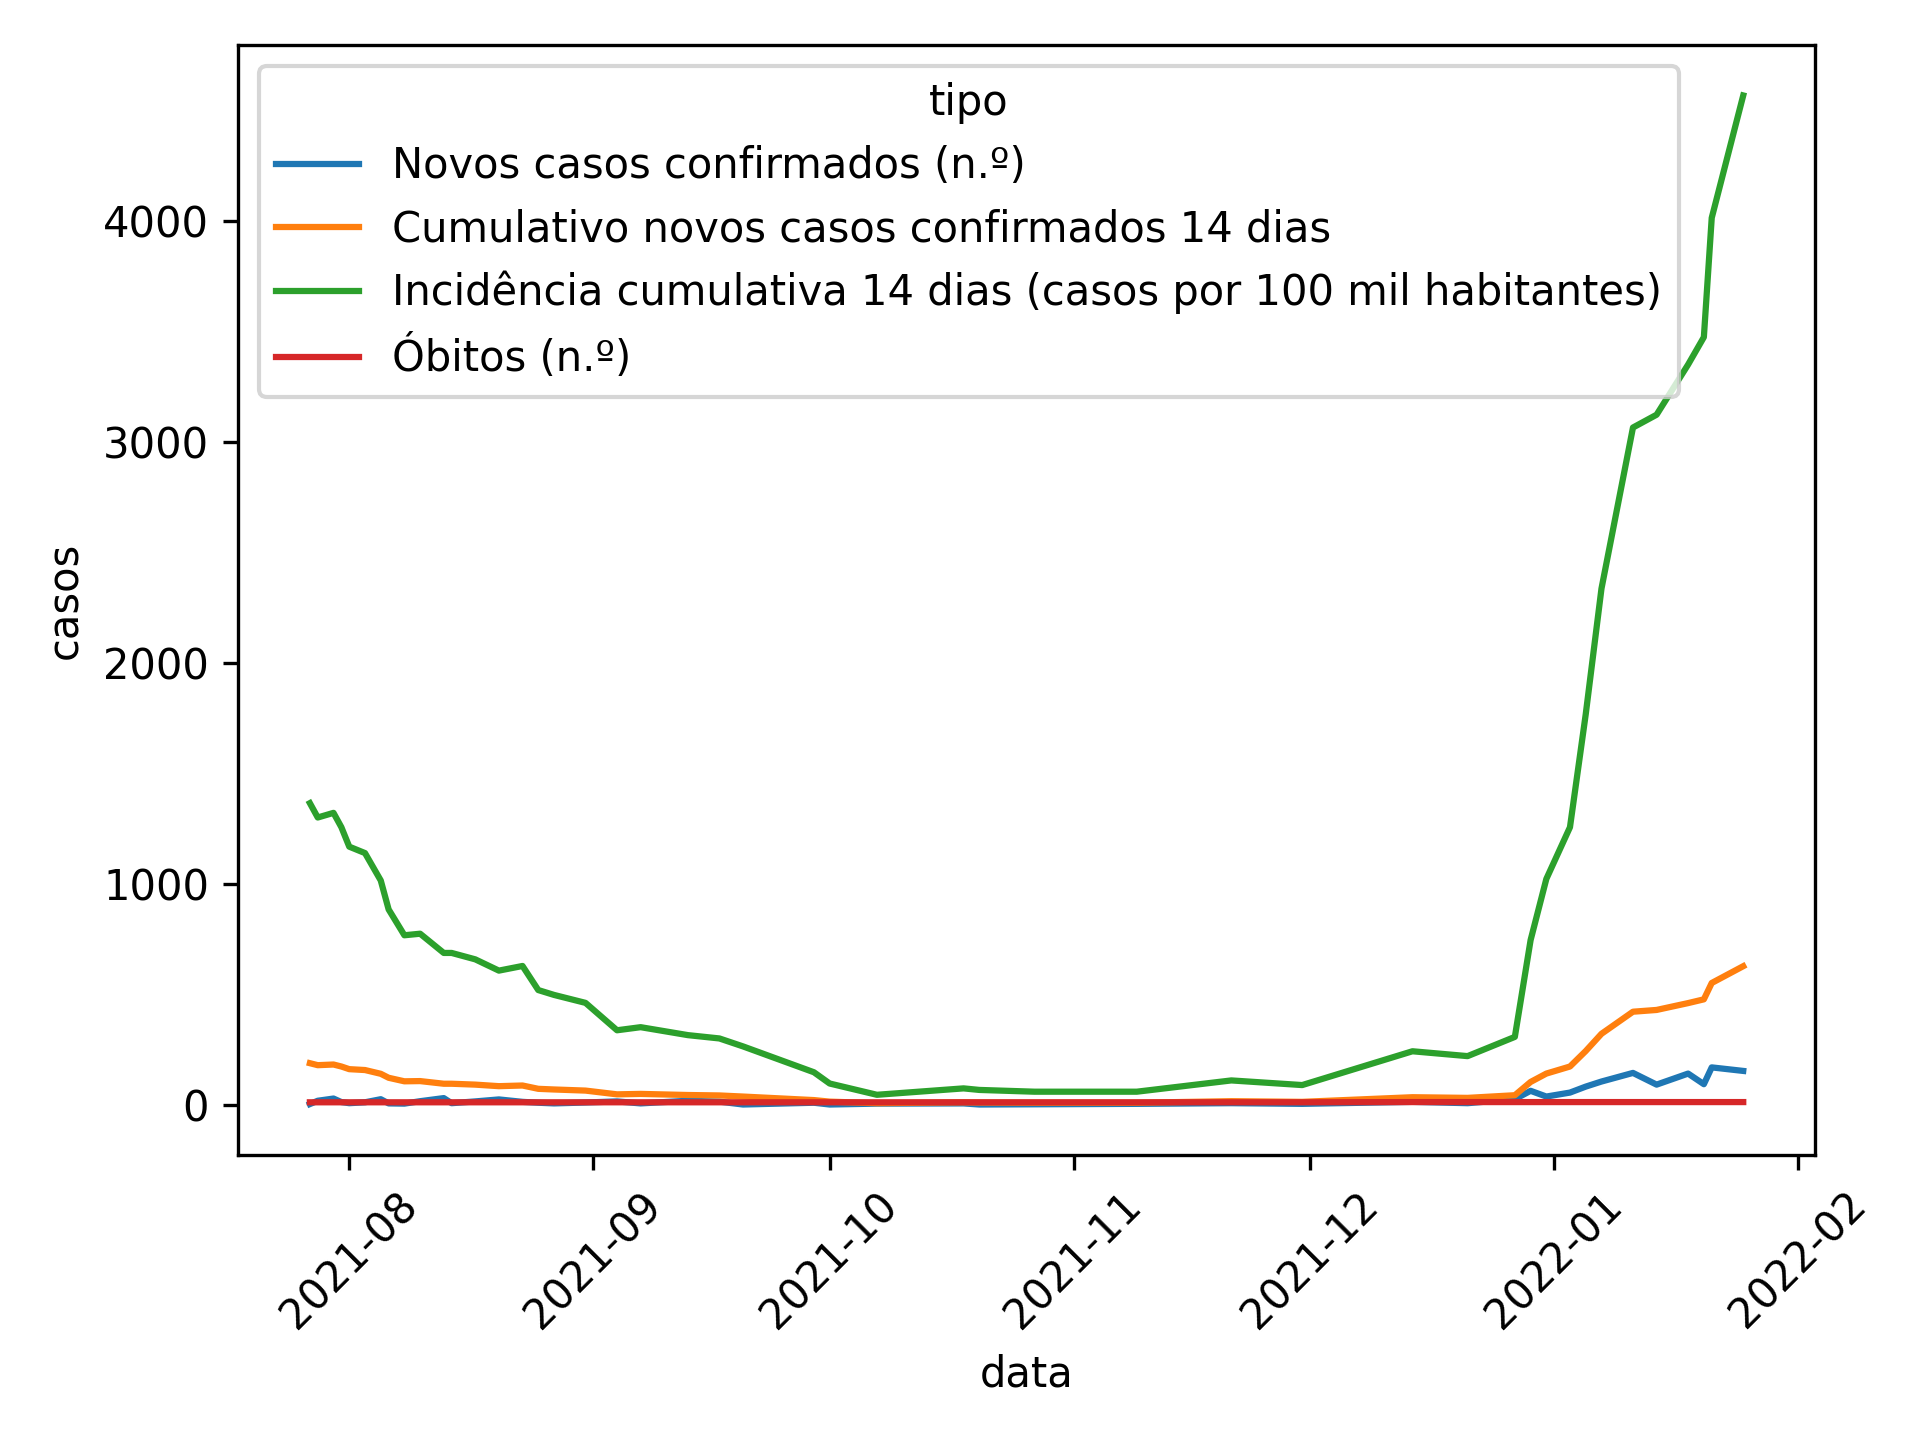
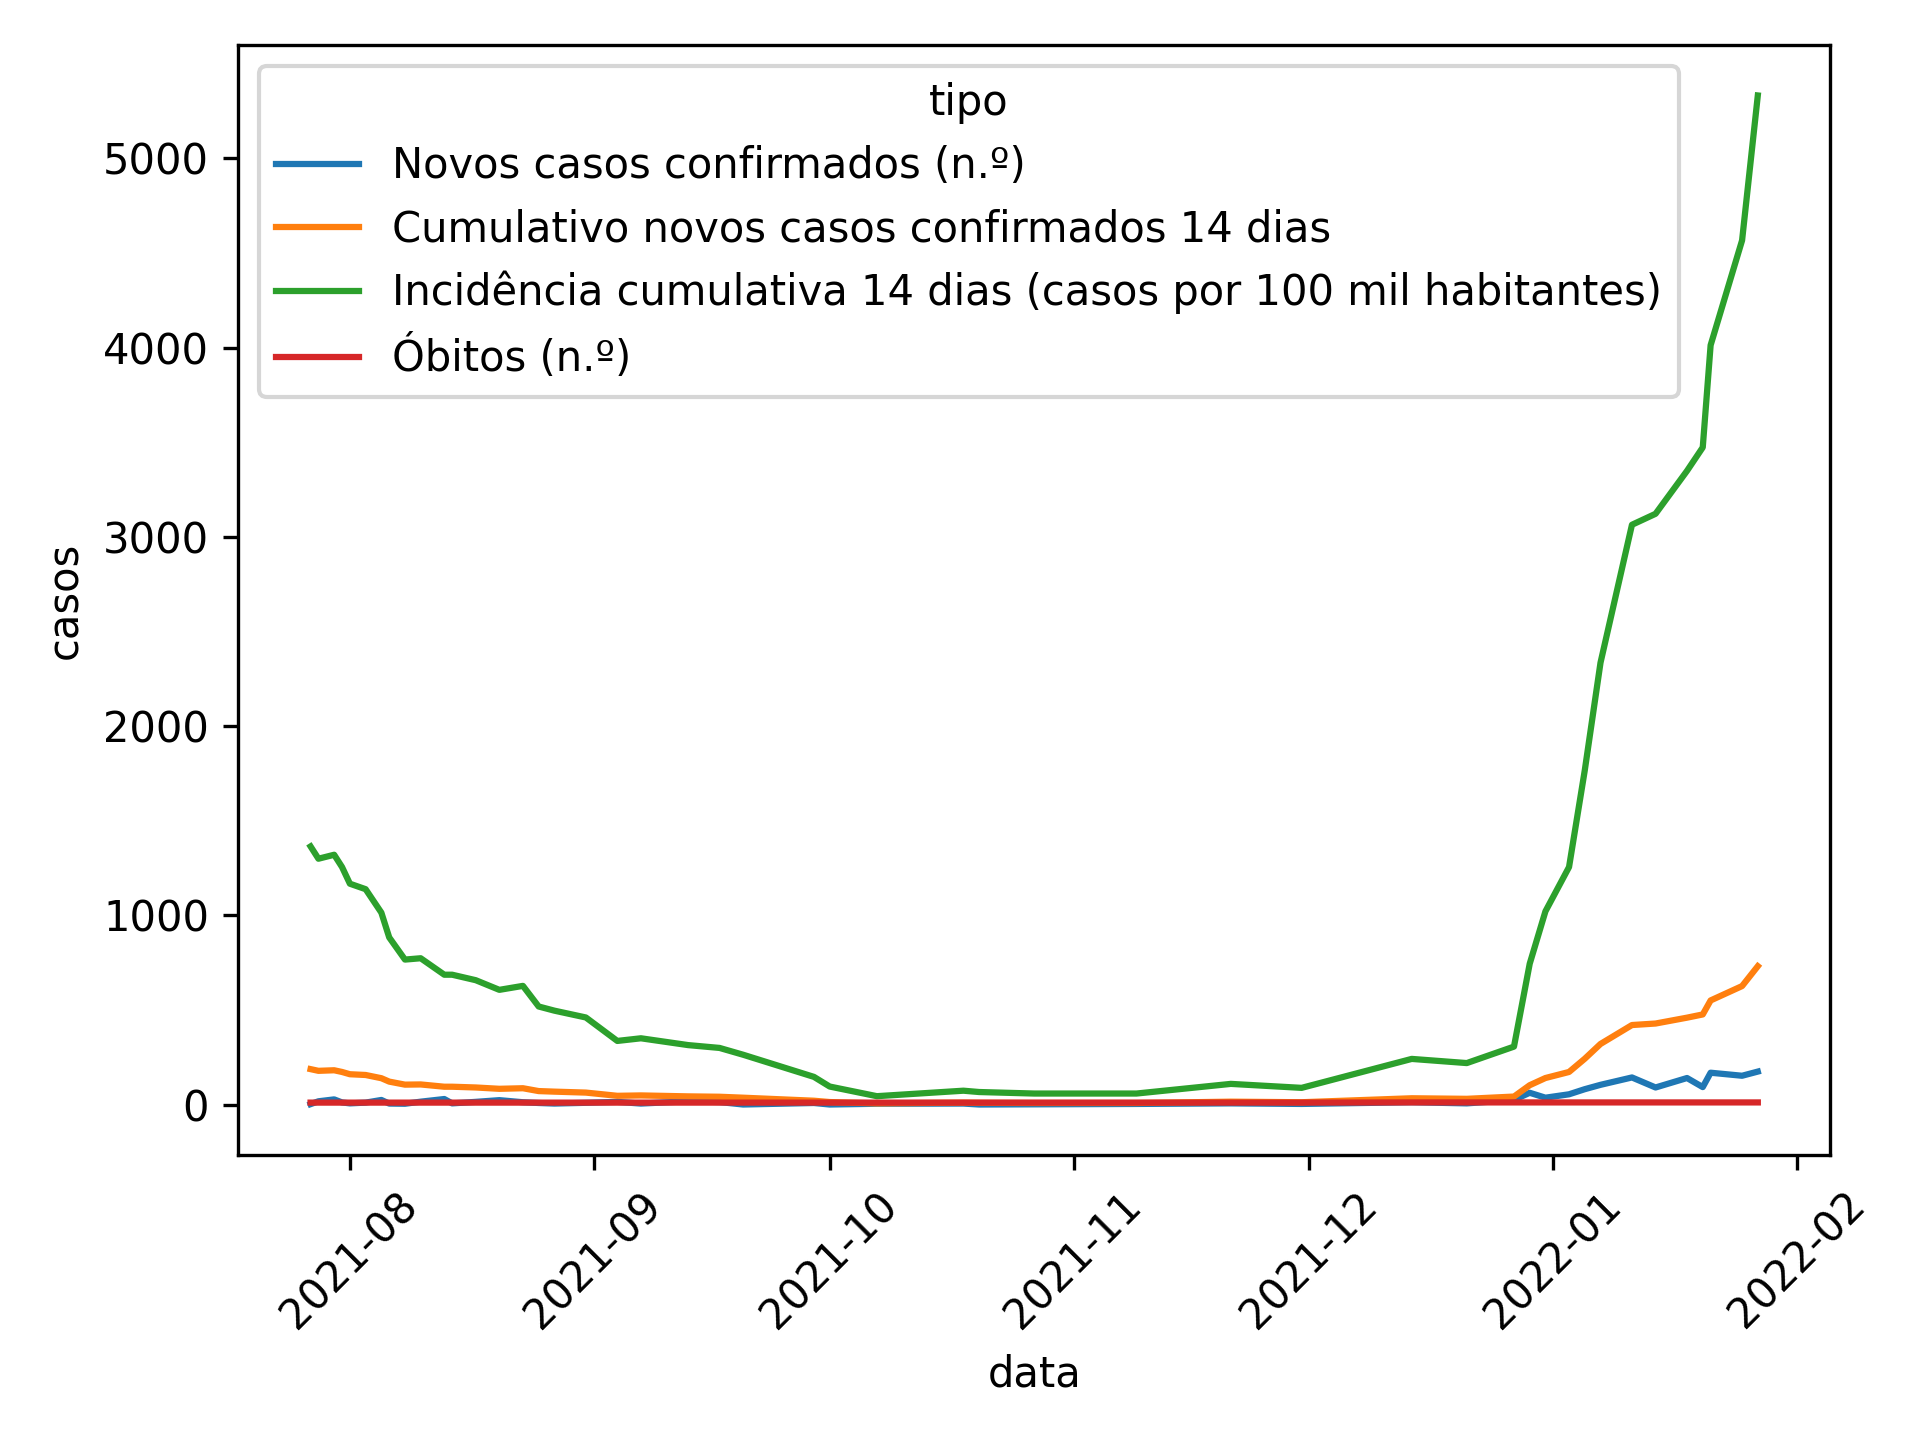
Apply automatic changes

diff --git a/README.md b/README.md
@@ -6,7 +6,6 @@
 
 | data       |   Novos casos confirmados (n.º) |   Casos ativos (n.º) |   Cumulativo novos casos confirmados 14 dias |   Incidência cumulativa 14 dias (casos por 100 mil habitantes) |   Óbitos (n.º) |   Vigilâncias ativas (n.º) |
 |:-----------|--------------------------------:|---------------------:|---------------------------------------------:|---------------------------------------------------------------:|---------------:|---------------------------:|
-| 30-11-2021 |                               3 |                    6 |                                           12 |                                                             88 |             10 |                         26 |
 | 14-12-2021 |                              12 |                   16 |                                           33 |                                                            241 |             11 |                         28 |
 | 21-12-2021 |                               6 |                   10 |                                           30 |                                                            219 |             11 |                         28 |
 | 27-12-2021 |                              24 |                   21 |                                           42 |                                                            306 |             11 |                         39 |
@@ -21,3 +20,4 @@
 | 20-01-2022 |                              92 |                  108 |                                          476 |                                                           3473 |             11 |                        nan |
 | 21-01-2022 |                             168 |                  nan |                                          550 |                                                           4013 |             11 |                        nan |
 | 25-01-2022 |                             152 |                  nan |                                          626 |                                                           4567 |             11 |                        nan |
+| 27-01-2022 |                             174 |                  nan |                                          731 |                                                           5333 |             11 |                        nan |
